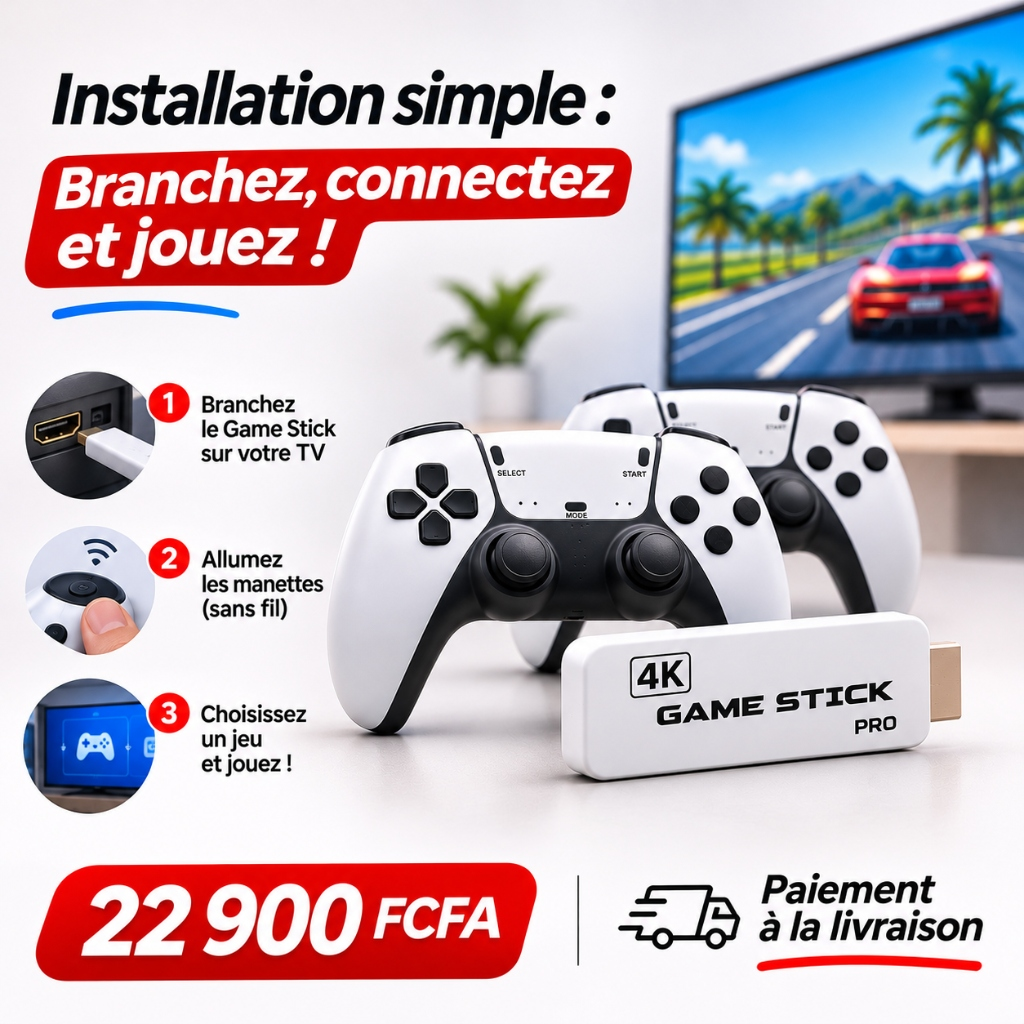
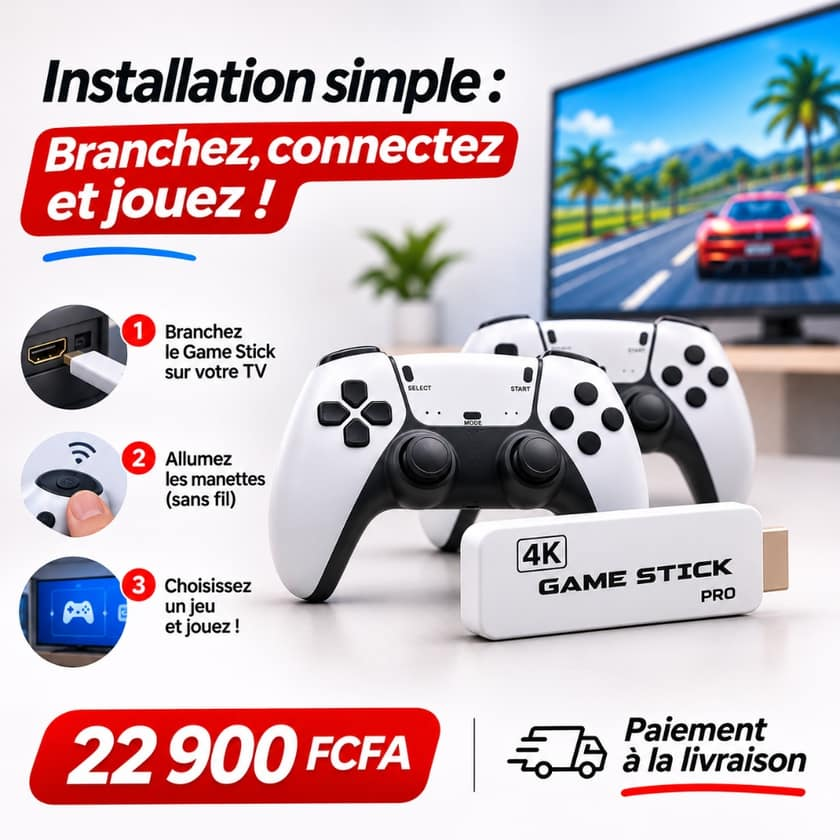
perf(game-stick-4k): compress images -82% and add 1-click WhatsApp order CTA

diff --git a/components/features/GameStickLanding.tsx b/components/features/GameStickLanding.tsx
@@ -21,6 +21,7 @@ import {
   Sparkles,
   Save,
   Check,
+  MessageCircle,
 } from "lucide-react";
 import { saveNewOrder } from "@/lib/ordersStorage";
 import { usePagePresence } from "@/hooks/usePagePresence";
@@ -464,6 +465,31 @@ export default function GameStickLanding({ slug = "game-stick-4k" }: { slug?: st
             onSubmit={handleOrderSubmit}
             isSubmitting={isSubmitting}
           />
+          <div className="mt-3 text-center space-y-1.5">
+            <p className="text-[11px] font-medium text-slate-500">
+              Vous préférez commander ou poser une question directement ?
+            </p>
+            <a
+              href={`https://wa.me/2290192901817?text=${encodeURIComponent(
+                "Bonjour Isivente ! Je souhaite commander la Console Game Stick 4K Pro (+10 000 Jeux & 2 Manettes) à 22 900 FCFA (paiement à la livraison)."
+              )}`}
+              target="_blank"
+              rel="noopener noreferrer"
+              onClick={() => {
+                recordInteraction();
+                trackAddToCart({
+                  content_name: selectedBundle.name,
+                  content_ids: [slug],
+                  value: selectedBundle.price,
+                  currency: "XOF",
+                });
+              }}
+              className="w-full inline-flex items-center justify-center gap-2 px-5 py-3.5 rounded-xl bg-[#16A34A] hover:bg-[#15803d] text-white font-semibold text-sm shadow-xs transition-colors"
+            >
+              <MessageCircle className="w-4 h-4 stroke-[2]" />
+              <span>Commander par WhatsApp (1 clic)</span>
+            </a>
+          </div>
         </div>
 
         {/* ── 8. GRILLE DES 4 BÉNÉFICES MAJEURS ── */}
